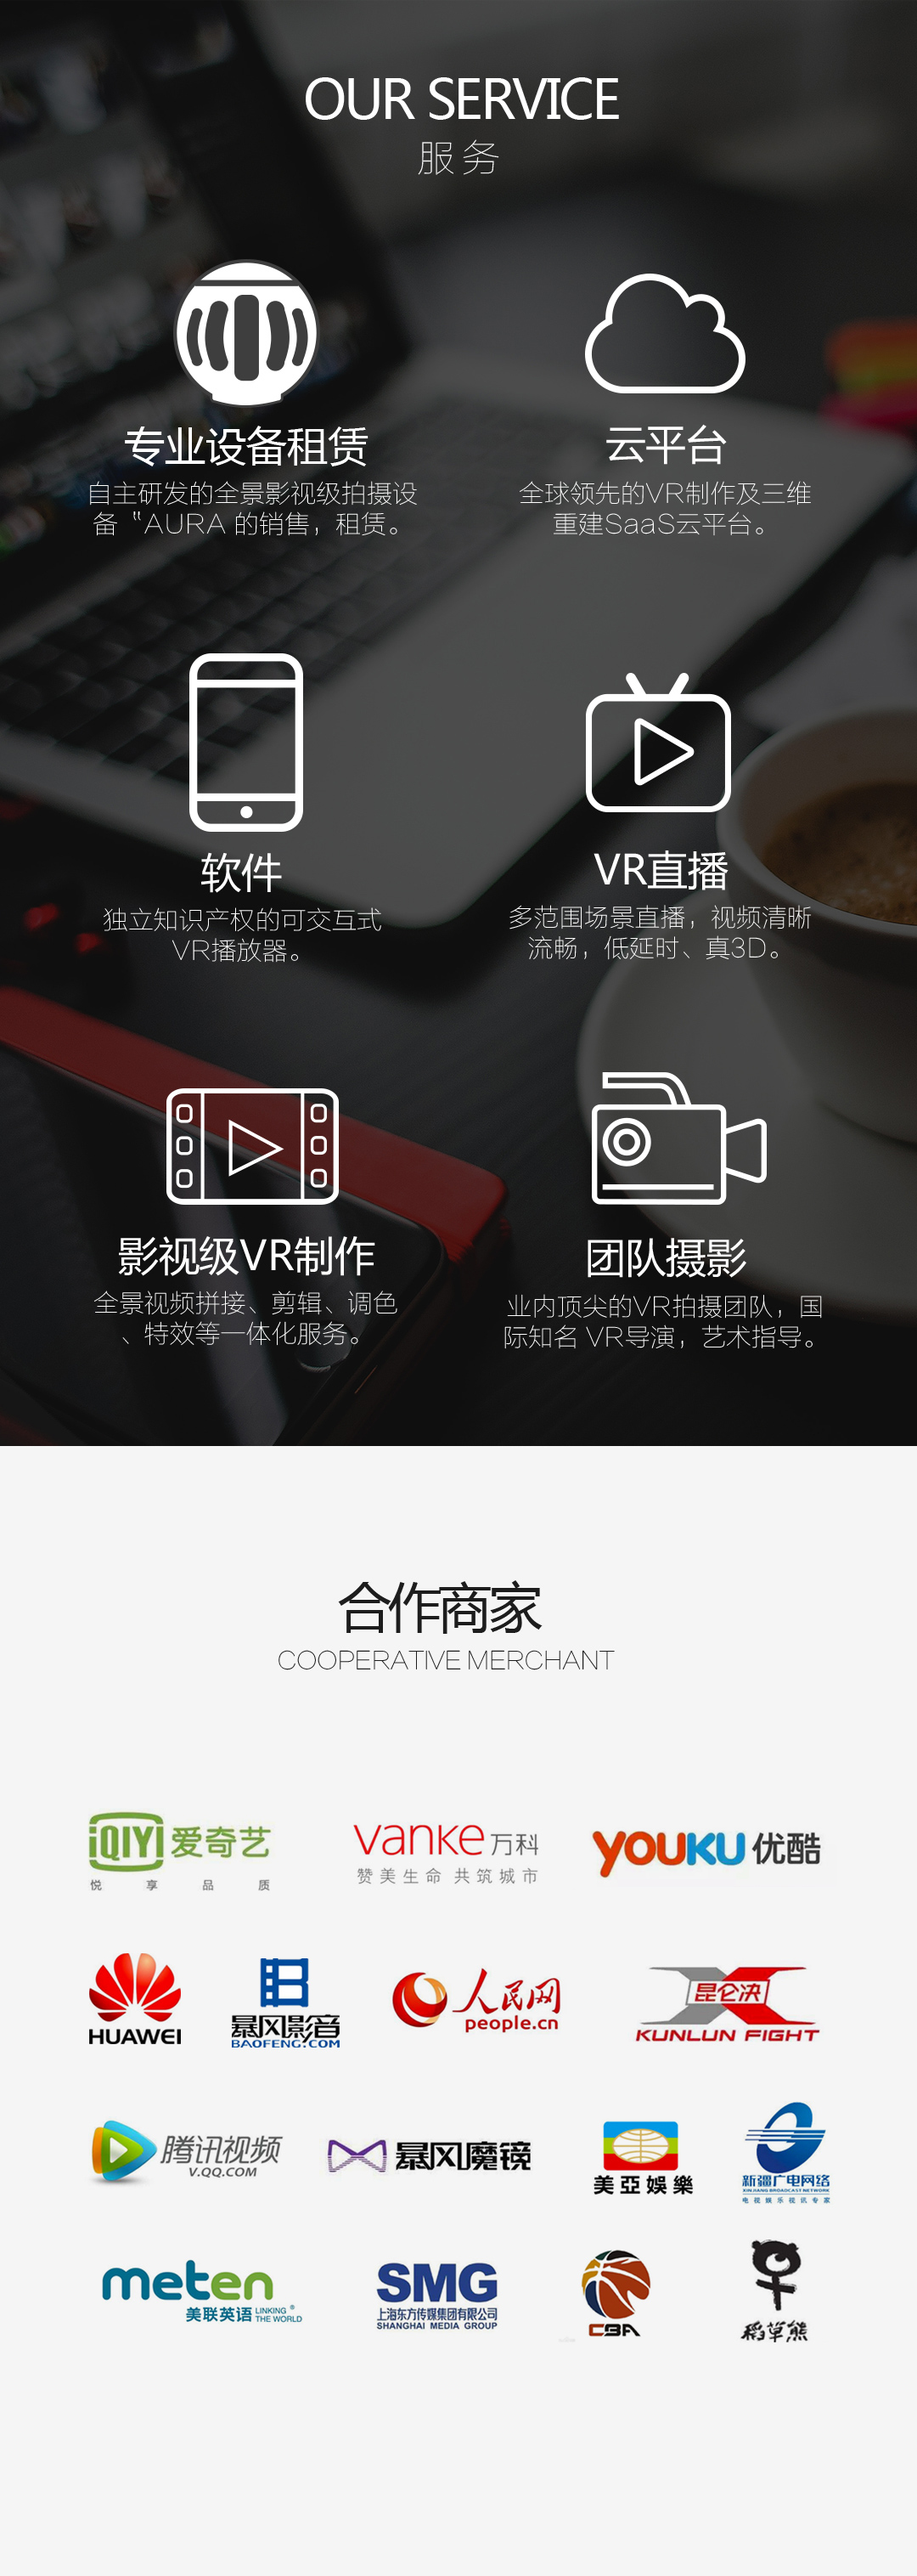
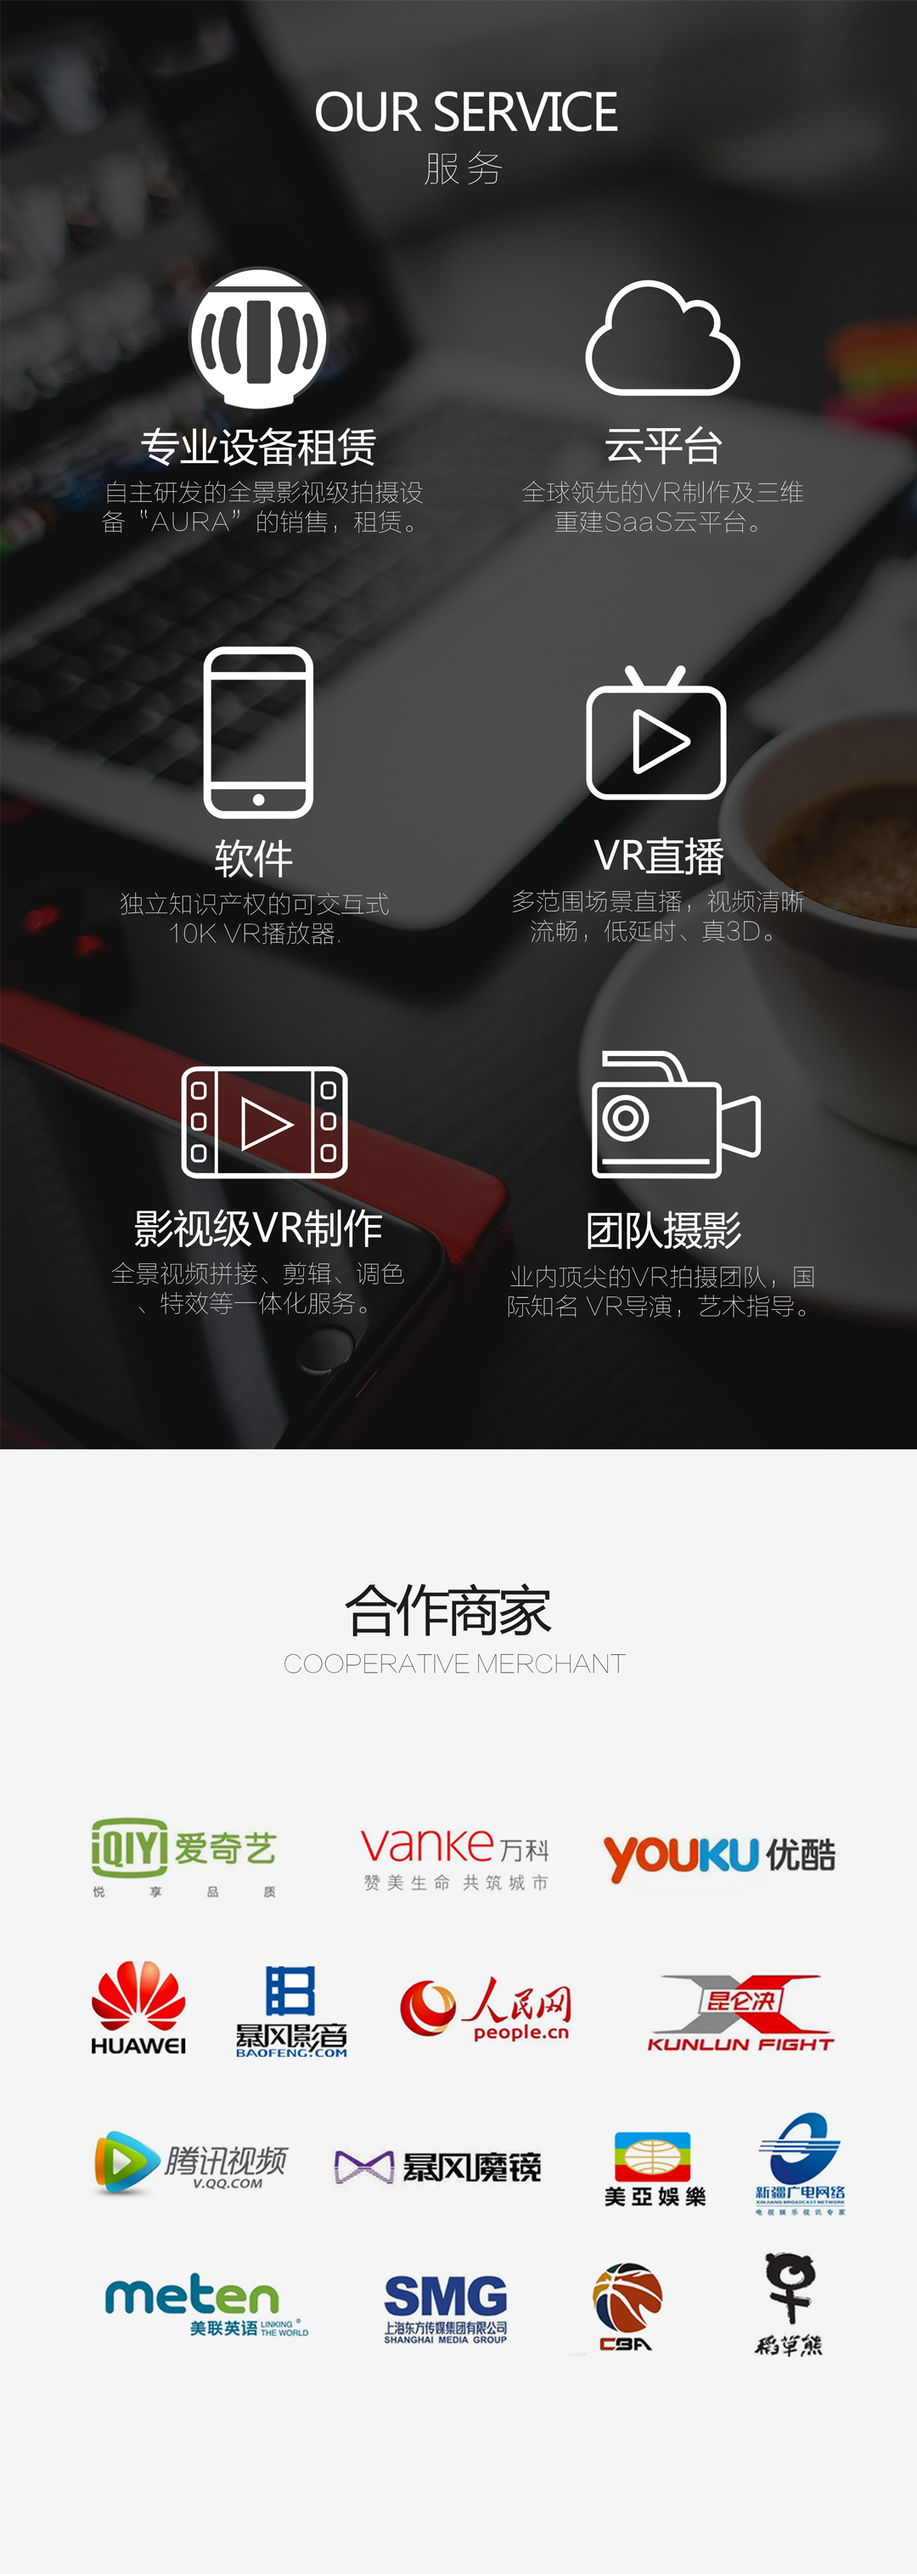
添加电话按钮，修改服务图片

diff --git a/resources/assets/sass/mobile/_main.scss b/resources/assets/sass/mobile/_main.scss
@@ -30,6 +30,10 @@ body {
   color: #f0f0f0;
 }
 
+.navbar-default .navbar-nav>.open>a, .navbar-default .navbar-nav>.open>a:focus, .navbar-default .navbar-nav>.open>a:hover {
+    background-color: #000;
+}
+
  .navbar-default .navbar-toggle:hover {
    background-color: #000;
  }
@@ -61,7 +65,7 @@ body {
    z-index: 1;
    .footer-bg {
      width: 100%;
-     min-height: 320px;
+     min-height: 340px;
      display: block;
      background-color: rgba(255, 255, 255, 0.5);
      background-image: url('/img/mobile_bottom_01.jpg');
@@ -488,4 +492,35 @@ Pagination Styles
 
 .swiper-visible-switch {
     /* Specific visible button style: */
+}
+
+@keyframes tada {
+    0% {
+        -webkit-transform: scale3d(1,1,1);
+        transform: scale3d(1,1,1)
+    }
+
+    10%,20% {
+        -webkit-transform: scale3d(.9,.9,.9) rotate3d(0,0,1,-3deg);
+        transform: scale3d(.9,.9,.9) rotate3d(0,0,1,-3deg)
+    }
+
+    30%,50%,70%,90% {
+        -webkit-transform: scale3d(1.1,1.1,1.1) rotate3d(0,0,1,3deg);
+        transform: scale3d(1.1,1.1,1.1) rotate3d(0,0,1,3deg)
+    }
+
+    40%,60%,80% {
+        -webkit-transform: scale3d(1.1,1.1,1.1) rotate3d(0,0,1,-3deg);
+        transform: scale3d(1.1,1.1,1.1) rotate3d(0,0,1,-3deg)
+    }
+
+    100% {
+        -webkit-transform: scale3d(1,1,1);
+        transform: scale3d(1,1,1)
+    }
+}
+
+.tada {
+    animation: tada 2s infinite linear;
 }

diff --git a/gulpfile.js b/gulpfile.js
@@ -33,7 +33,7 @@ elixir(mix => {
     // mix.imagemin("resources/assets/img", "public/img");
     mix.copy('resources/assets/vrplay', 'public/vrplay');
     mix.copy('resources/assets/vendor', 'public/vendor');
-    // mix.copy('./node_modules/bootstrap-sass/assets/fonts', 'public/fonts');
+    mix.copy('./node_modules/bootstrap-sass/assets/fonts', 'public/fonts');
     mix.copy('./resources/assets/vendor/summernote/font', 'public/fonts');
     mix.copy('./node_modules/font-awesome/fonts', 'public/fonts');
     mix.version(['public/js/app.js', 'public/js/index.js', 'public/css/app.css']);

diff --git a/resources/views/layouts/mobile.blade.php b/resources/views/layouts/mobile.blade.php
@@ -78,6 +78,17 @@
                         <li><a href="{{ url('/mobile/aurawork') }}" title="AURA Work">AURA Work</a></li>
                         <li><a href="{{ url('/mobile/aurastudio') }}" title="AURA Studio">AURA Studio</a></li>
                         <li><a href="{{ url('/mobile/service') }}" title="服务">服务</a></li>
+                        <li class="dropdown">
+                            <a href="#" class="dropdown-toggle" data-toggle="dropdown" role="button" aria-haspopup="true" aria-expanded="false">PC版入口 <span class="caret"></span></a>
+                            <ul class="dropdown-menu dropdown-menu-left">
+                                <li><a href="/video" title="内容">内容</a></li>
+                                <li><a href="/download" title="软件下载">软件下载</a></li>
+                                <li><a href="/about" class="link" title="关于我们">关于我们</a></li>
+                                <li><a href="/join" class="link" title="人才招聘">人才招聘</a></li>
+                                <li><a href="/news" class="link" title="新闻报道">新闻报道</a></li>
+                                <li><a href="/contact" class="link" title="联系我们">联系我们</a></li>
+                            </ul>
+                        </li>
                     </ul>
                 </div>
             </div>
@@ -97,10 +108,15 @@
                 </div>
                 <hr class="divider">
                 <div class="row">
-                    <div class="col-xs-12">
+                    <div class="col-xs-7" style="margin-top:28px;">
                         <small class="footer-title">销售电话</small>
                         <h5 class="footer-txt">
                             <a href="tel:0755-26657982">0755-26657982</a>
+                        </h5>
+                    </div>
+                    <div class="col-xs-5">
+                        <h5 class="footer-txt text-right">
+                            <a href="tel:0755-26657982"><span class="glyphicon glyphicon-phone-alt tada" aria-hidden="true" style="font-size:64px;"></span></a>
                         </h5>
                     </div>
                     <div class="col-xs-12">

diff --git a/resources/views/mobile/home.blade.php b/resources/views/mobile/home.blade.php
@@ -21,7 +21,7 @@
                                 <img src="/img/mobile_auratmwork.png" alt="mobile_auratmwork.png" width="200" draggable="false">
                             </div>
                             <div class="title2">
-                                <h2>AURA专属全镜头监视工具。</h2>
+                                <h2>AURA专属全镜头监看工具。</h2>
                             </div>
                         </div>
                         <div class="swiper-slide slide3" onclick="javascript:window.location.href='/mobile/aurastudio';">
@@ -29,7 +29,7 @@
                                 <img src="/img/mobile_auratmstudio.png" alt="mobile_auratmstudio.png" width="220" draggable="false">
                             </div>
                             <div class="title2">
-                                <h2>配合AURA的快速轻剪辑工具。</h2>
+                                <h2>配合AURA的快速轻拼接、剪辑工具。</h2>
                             </div>
                         </div>
                     </div>
